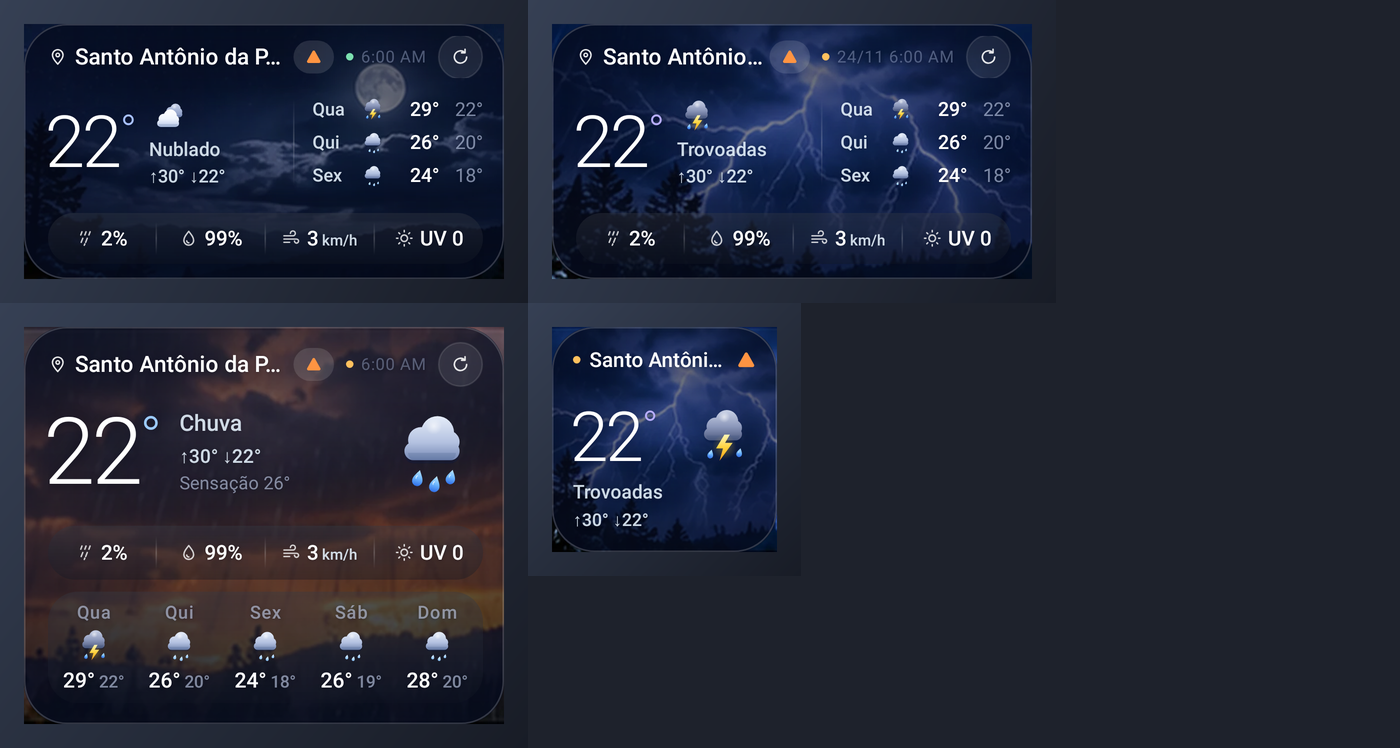
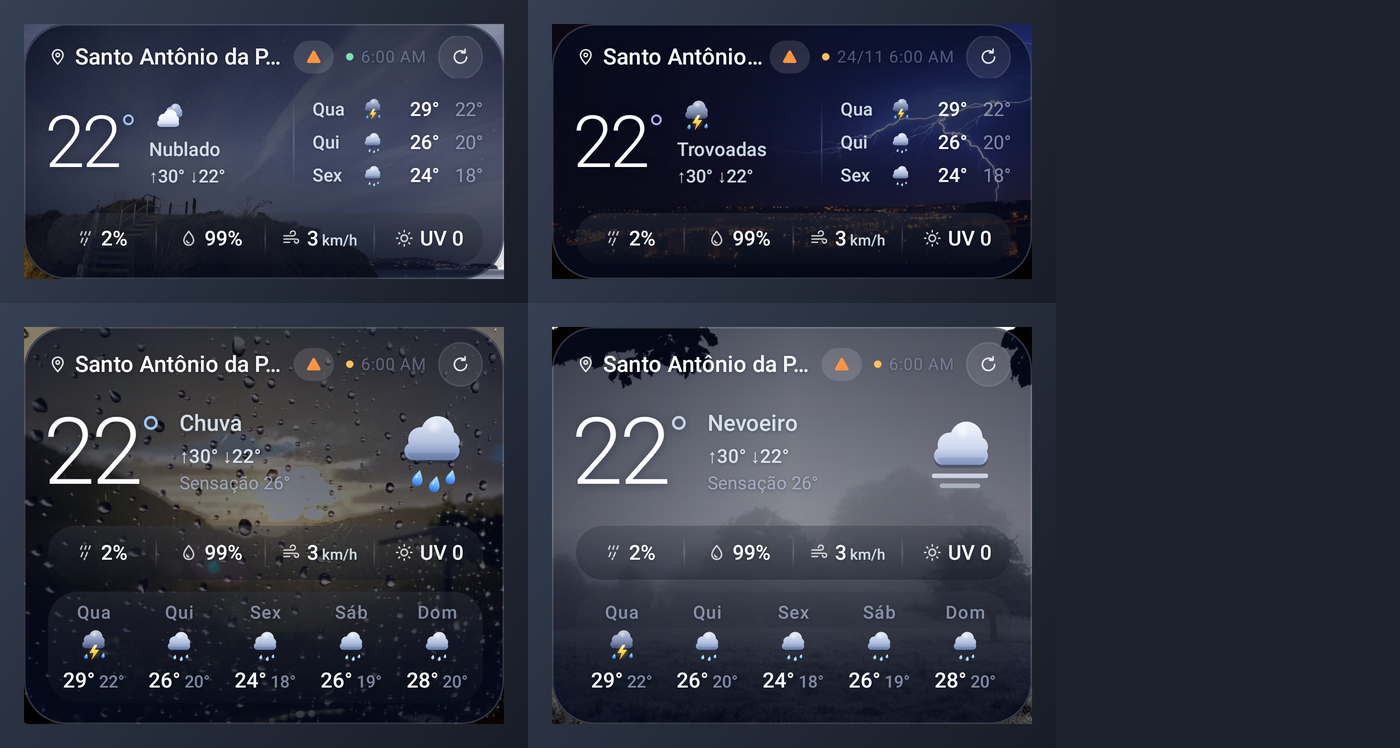
Troca os 29 cenários por fotografias reais e variadas (Flickr/Openverse)
- Substitui as imagens geradas por IA por fotos reais com licença livre
  (CC0, PDM, CC BY 2.0, CC BY-SA 2.0), escolhidas para variar paisagens:
  costa, lago, cidade, campo, montanha, ponte
- Créditos (autor, título, licença, link) em res/raw/photo_credits.json,
  exibidos em Configurações > Créditos das fotos

Claude-Session: https://claude.ai/code/session_01W2PtX1KNnVKciqynqcyRmn

diff --git a/tools/scenes/SCENES.md b/tools/scenes/SCENES.md
@@ -20,37 +20,34 @@ sem textos, números, pessoas ou elementos gráficos.
 |---|---|---|
 | `scene_clear_madrugada` | céu limpo · madrugada | ✅ |
 | `scene_clear_manha` | céu limpo · manhã | ✅ |
-| `scene_clear_tarde` | céu limpo · tarde | ✅ ¹ |
-| `scene_clear_entardecer` | céu limpo · entardecer | ✅ ¹ |
+| `scene_clear_tarde` | céu limpo · tarde | ✅ |
+| `scene_clear_entardecer` | céu limpo · entardecer | ✅ |
 | `scene_clear_noite` | céu limpo · noite | ✅ |
 | `scene_partly_manha` | parcialmente nublado · manhã | ✅ |
 | `scene_partly_tarde` | parcialmente nublado · tarde | ✅ |
 | `scene_partly_entardecer` | parcialmente nublado · entardecer | ✅ |
-| `scene_partly_noite` | parcialmente nublado · madrugada e noite | ✅ ¹ |
+| `scene_partly_noite` | parcialmente nublado · madrugada e noite | ✅ |
 | `scene_cloudy_dia` | nublado · manhã e tarde | ✅ |
-| `scene_cloudy_entardecer` | nublado · entardecer | ✅ ¹ |
+| `scene_cloudy_entardecer` | nublado · entardecer | ✅ |
 | `scene_cloudy_noite` | nublado · madrugada e noite | ✅ |
 | `scene_fog_manha` | nevoeiro · manhã (floresta com neblina, luz do amanhecer) | ✅ |
-| `scene_fog_dia` | nevoeiro · tarde e entardecer | ✅ ¹ |
-| `scene_fog_noite` | nevoeiro · madrugada e noite | ✅ ¹ |
-| `scene_rain_light_dia` | chuva fraca / garoa · manhã e tarde | ✅ ¹ |
-| `scene_rain_light_noite` | chuva fraca / garoa · madrugada e noite | ✅ ¹ |
+| `scene_fog_dia` | nevoeiro · tarde e entardecer | ✅ |
+| `scene_fog_noite` | nevoeiro · madrugada e noite | ✅ |
+| `scene_rain_light_dia` | chuva fraca / garoa · manhã e tarde | ✅ |
+| `scene_rain_light_noite` | chuva fraca / garoa · madrugada e noite | ✅ |
 | `scene_rain_moderate_dia` | chuva moderada · manhã e tarde | ✅ |
-| `scene_rain_moderate_noite` | chuva moderada · madrugada e noite | ✅ ¹ |
-| `scene_rain_heavy_dia` | chuva intensa · manhã e tarde | ✅ ¹ |
-| `scene_rain_heavy_noite` | chuva intensa · madrugada e noite | ✅ ¹ |
-| `scene_rain_entardecer` | qualquer chuva · entardecer (nuvens escuras, horizonte alaranjado) | ✅ ¹ |
-| `scene_storm_dia` | tempestade com raios · manhã e tarde | ✅ ¹ |
-| `scene_storm_entardecer` | tempestade com raios · entardecer | ✅ ¹ |
-| `scene_storm_noite` | tempestade com raios · madrugada e noite (relâmpagos) | ✅ ¹ |
-| `scene_hail_dia` | granizo · manhã, tarde e entardecer | ✅ ¹ |
-| `scene_hail_noite` | granizo · madrugada e noite | ✅ ¹ |
-| `scene_snow_dia` | neve · manhã, tarde e entardecer | ✅ ¹ |
-| `scene_snow_noite` | neve · madrugada e noite | ✅ ¹ |
+| `scene_rain_moderate_noite` | chuva moderada · madrugada e noite | ✅ |
+| `scene_rain_heavy_dia` | chuva intensa · manhã e tarde | ✅ |
+| `scene_rain_heavy_noite` | chuva intensa · madrugada e noite | ✅ |
+| `scene_rain_entardecer` | qualquer chuva · entardecer (nuvens escuras, horizonte alaranjado) | ✅ |
+| `scene_storm_dia` | tempestade com raios · manhã e tarde | ✅ |
+| `scene_storm_entardecer` | tempestade com raios · entardecer | ✅ |
+| `scene_storm_noite` | tempestade com raios · madrugada e noite (relâmpagos) | ✅ |
+| `scene_hail_dia` | granizo · manhã, tarde e entardecer | ✅ |
+| `scene_hail_noite` | granizo · madrugada e noite | ✅ |
+| `scene_snow_dia` | neve · manhã, tarde e entardecer | ✅ |
+| `scene_snow_noite` | neve · madrugada e noite | ✅ |
 
-As fotos marcadas com ✅ foram geradas com IA no Canva da conta do usuário e otimizadas para 1280×720 WebP.
-A de `clear_tarde` também foi gerada, mas os créditos acabaram antes de exportá-la em alta resolução.
-Ela está na biblioteca do Canva (id `MAHbzj8sf4A`) e pode ser exportada depois.
-
-¹ Fotos enviadas pelo usuário, recortadas de uma grade (cerca de 334×150 px por quadro, ampliadas para 960×540).
-Para máxima nitidez, substitua pelos originais em alta resolução com `optimize.py`, usando o mesmo nome.
+Todas as fotografias são reais (Flickr via Openverse), com licenças CC0, domínio público, CC BY 2.0 ou
+CC BY-SA 2.0. Autor, título e link de cada uma estão em `app/src/main/res/raw/photo_credits.json` e aparecem
+em "Créditos das fotos" na tela de configurações. Para buscar candidatas: `tools/scenes/openverse_search.py`.
